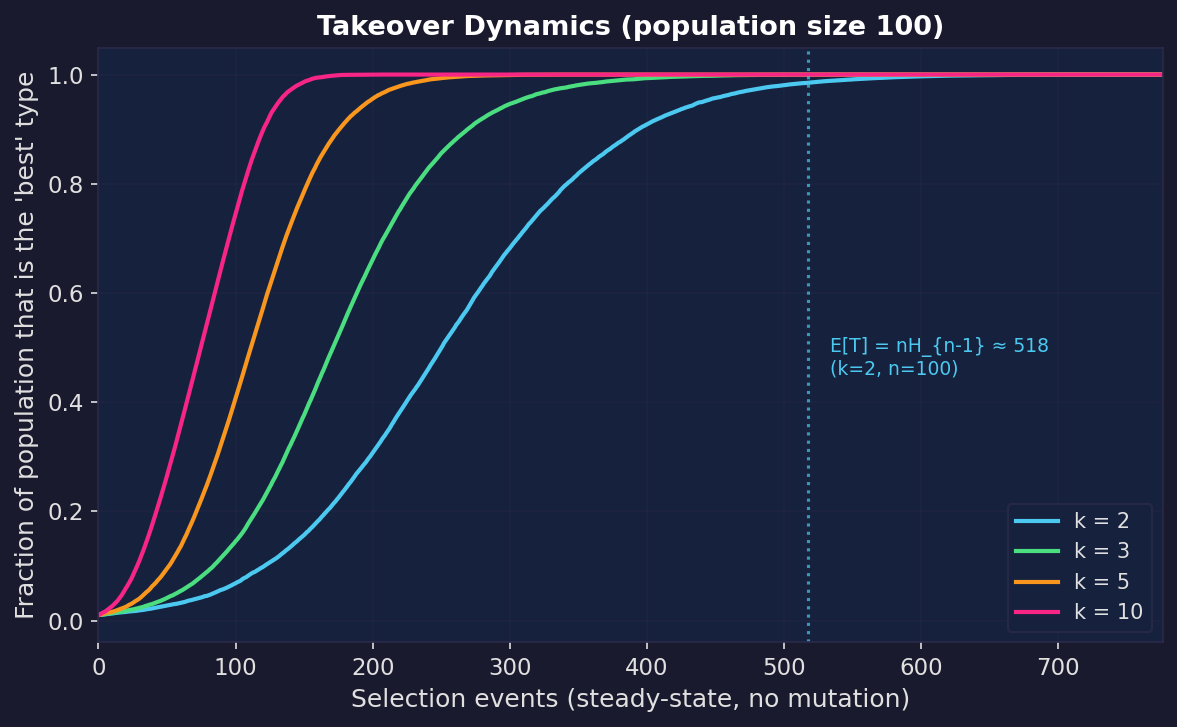
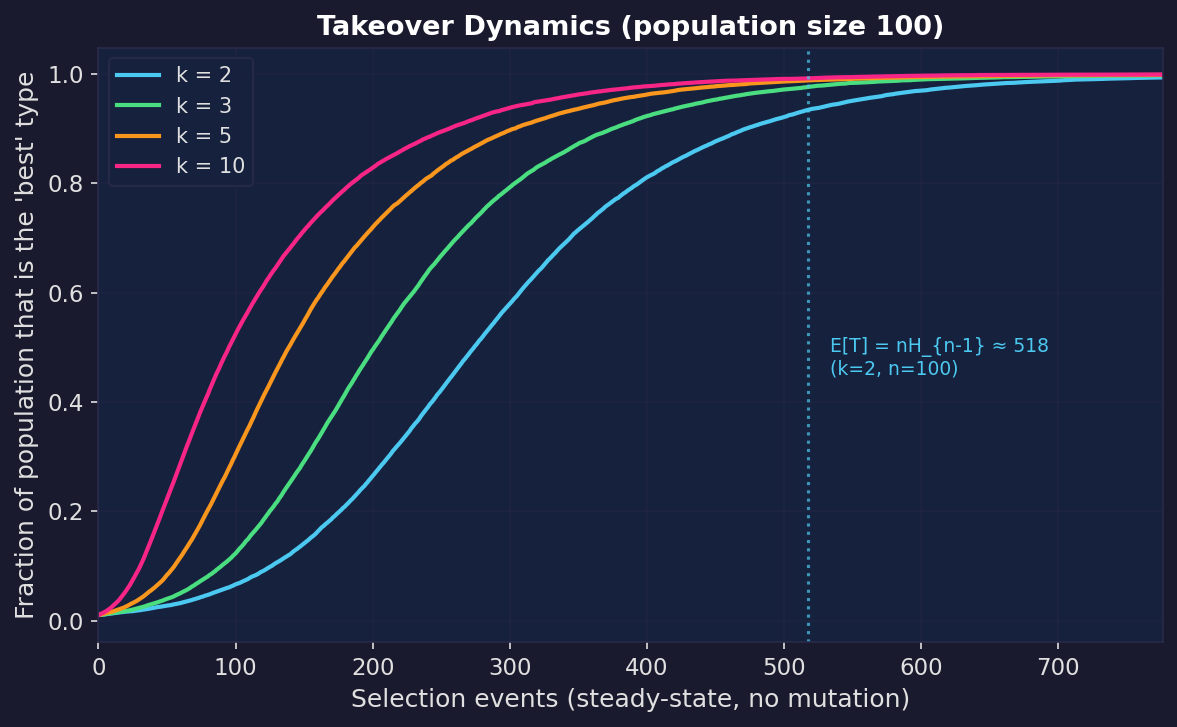
update theory label on second plot

diff --git a/evolution-diversity/animations/deeper_figures.py b/evolution-diversity/animations/deeper_figures.py
@@ -239,15 +239,16 @@ def make_takeover_curves(save_path):
             fracs = [1.0 / pop_size]
 
             for step in range(1, max_steps + 1):
-                # Tournament selects a winner; winner replaces a random
-                # non-winner from the tournament (monotonic: best type
-                # can only spread, never be lost).
+                # Tournament selects a winner; winner replaces a
+                # uniformly random individual from the population.
+                # Monotonic: only update if the winner is best type
+                # and the replaced individual is not.
                 candidates = rng.choice(pop_size, min(ts, pop_size), replace=False)
-                if np.any(types[candidates] == 1):
-                    # Best type wins; replace a non-best candidate if any
-                    losers = candidates[types[candidates] == 0]
-                    if len(losers) > 0:
-                        types[rng.choice(losers)] = 1
+                winner_is_best = np.any(types[candidates] == 1)
+                if winner_is_best:
+                    slot = rng.integers(pop_size)
+                    if types[slot] == 0:
+                        types[slot] = 1
                 if step % record_every == 0:
                     fracs.append(np.mean(types == 1))
 
